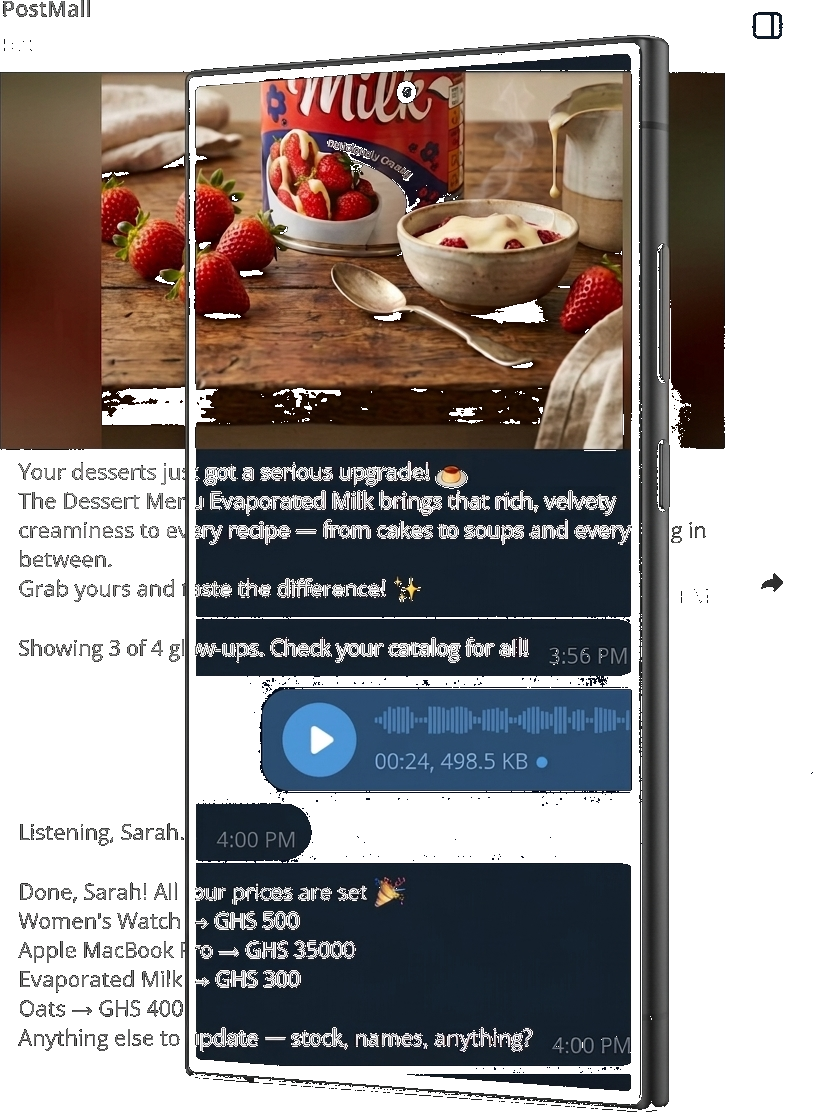
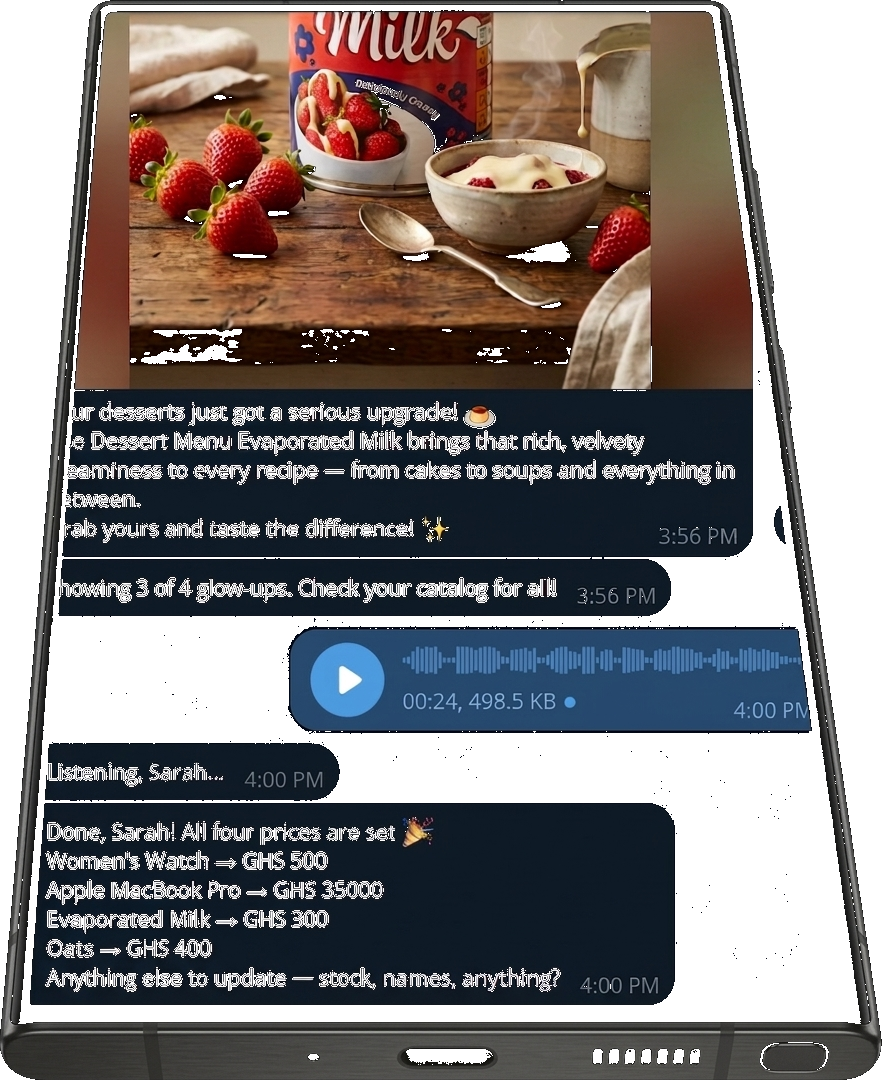
feat: real 3D phone mockups (Nano Banana 2) with oscillating animation

diff --git a/app/page.tsx b/app/page.tsx
@@ -75,23 +75,19 @@ export default function Home() {
             </p>
           </div>
 
-          {/* 3D Phone mockups — oscillating */}
-          <div className="hidden lg:flex items-center shrink-0 animate-fade-up delay-3" style={{perspective: '1200px'}}>
+          {/* 3D Phone mockups — real renders, oscillating */}
+          <div className="hidden lg:flex items-center shrink-0 animate-fade-up delay-3">
             {/* Glow behind */}
-            <div className="absolute right-12 top-1/2 -translate-y-1/2 w-80 h-80 bg-ps-orange/10 rounded-full blur-[100px] -z-10" />
+            <div className="absolute right-16 top-1/2 -translate-y-1/2 w-80 h-96 bg-ps-orange/8 rounded-full blur-[100px] -z-10" />
 
-            {/* iPhone — tilted right, oscillates up */}
-            <div className="animate-float-up" style={{transform: 'rotateY(-12deg) rotateX(2deg)'}}>
-              <div className="w-52 xl:w-56 rounded-[2.2rem] border-[6px] border-[#2A2A2E] bg-[#2A2A2E] shadow-2xl overflow-hidden ring-1 ring-white/10">
-                <img src="/screen-1.png" alt="Amberlyn on Telegram" className="w-full" />
-              </div>
+            {/* iPhone — oscillates up */}
+            <div className="animate-float-up z-10">
+              <img src="/phone-1.png" alt="Amberlyn on iPhone" className="w-52 xl:w-60 drop-shadow-2xl" />
             </div>
 
-            {/* Samsung — tilted left, oscillates down (opposite phase) */}
-            <div className="-ml-8 animate-float-down" style={{transform: 'rotateY(8deg) rotateX(-2deg)'}}>
-              <div className="w-48 xl:w-52 rounded-[1.6rem] border-[5px] border-[#1A1A1E] bg-[#1A1A1E] shadow-xl overflow-hidden ring-1 ring-white/5">
-                <img src="/screen-2.png" alt="Amberlyn on WhatsApp" className="w-full" />
-              </div>
+            {/* Samsung — oscillates down (opposite phase) */}
+            <div className="-ml-10 animate-float-down">
+              <img src="/phone-2.png" alt="Amberlyn on Android" className="w-48 xl:w-56 drop-shadow-xl" />
             </div>
           </div>
         </div>

diff --git a/app/globals.css b/app/globals.css
@@ -171,21 +171,21 @@ html {
 
 /* Oscillating float for phone mockups */
 @keyframes floatUp {
-  0%, 100% { transform: translateY(0) rotateY(-12deg) rotateX(2deg); }
-  50% { transform: translateY(-16px) rotateY(-12deg) rotateX(2deg); }
+  0%, 100% { transform: translateY(0); }
+  50% { transform: translateY(-20px); }
 }
 
 @keyframes floatDown {
-  0%, 100% { transform: translateY(0) rotateY(8deg) rotateX(-2deg); }
-  50% { transform: translateY(16px) rotateY(8deg) rotateX(-2deg); }
+  0%, 100% { transform: translateY(0); }
+  50% { transform: translateY(20px); }
 }
 
 .animate-float-up {
-  animation: floatUp 4s ease-in-out infinite;
+  animation: floatUp 5s ease-in-out infinite;
 }
 
 .animate-float-down {
-  animation: floatDown 4s ease-in-out infinite;
+  animation: floatDown 5s ease-in-out infinite;
 }
 
 /* Hide scrollbar on category tabs */
